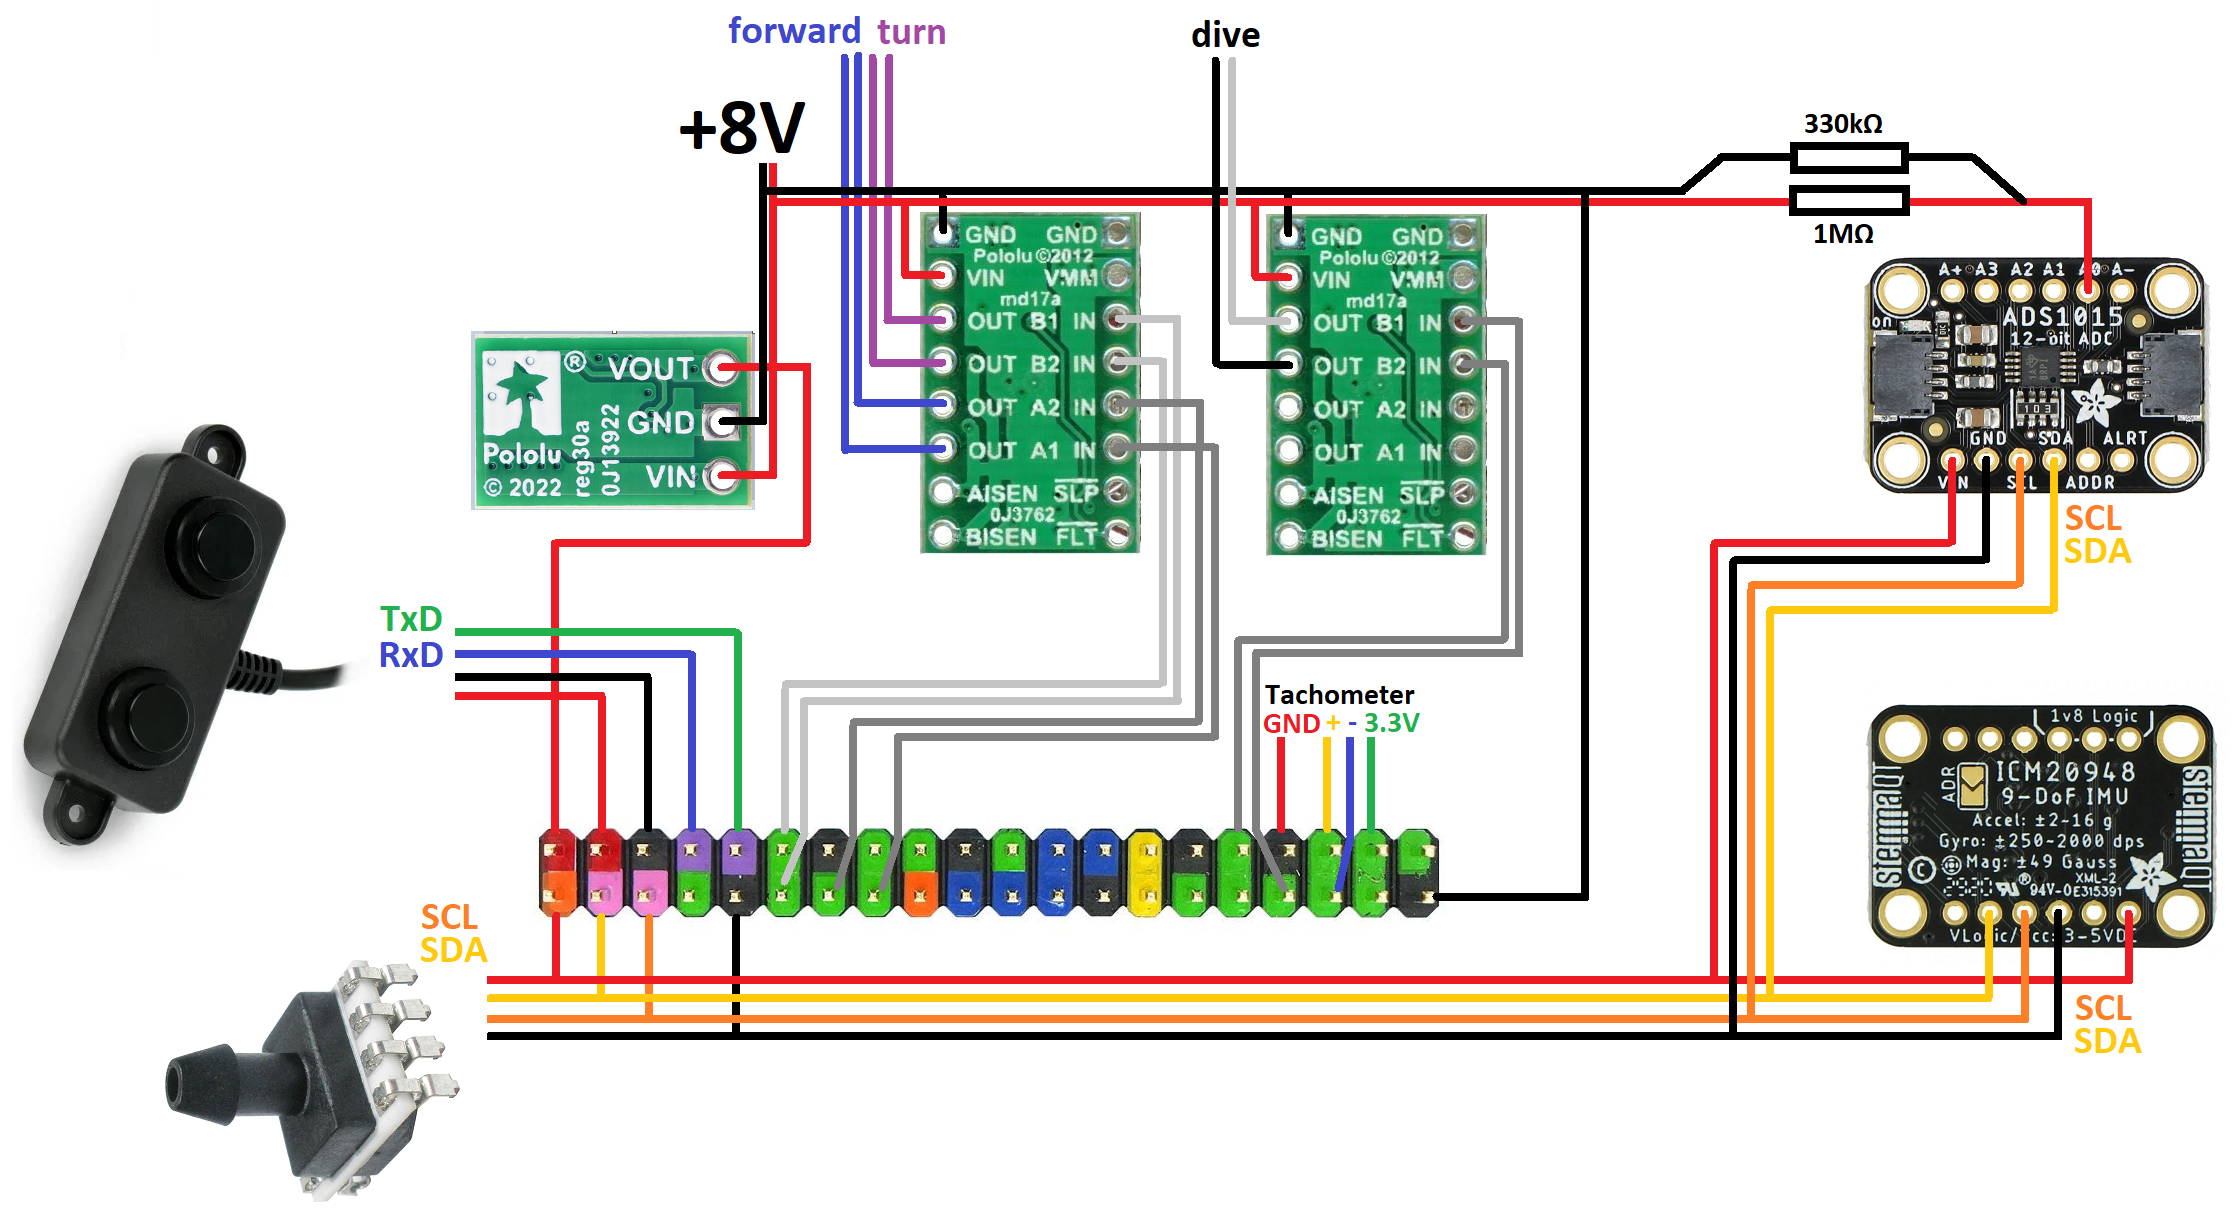
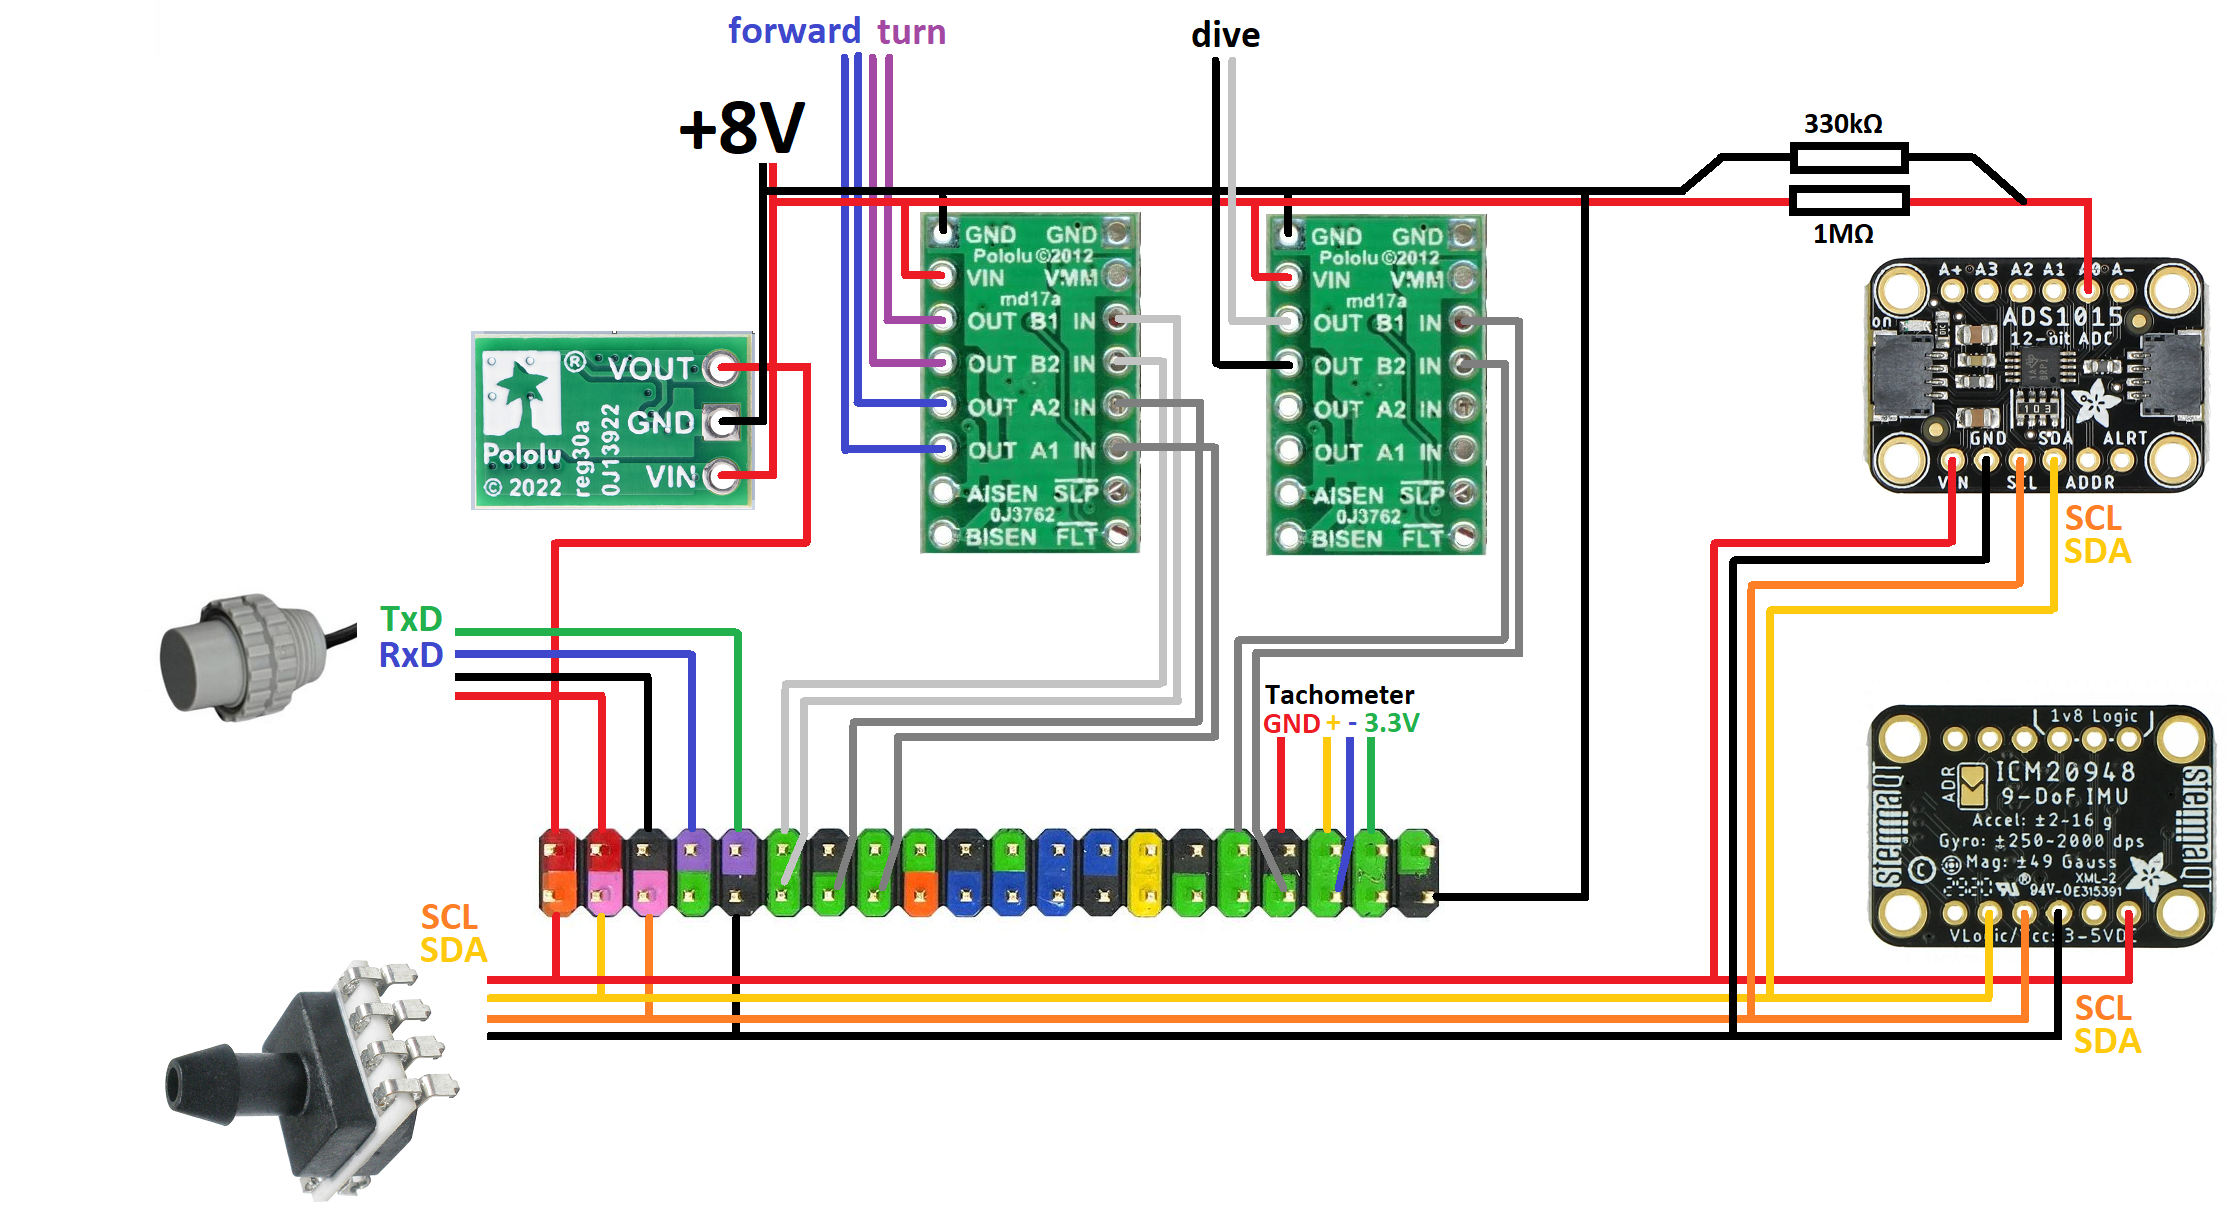
add new sonar sensor to circuit diagram

Changed region(s): [[0.0, 0.3409, 0.1562, 0.7129]]

diff --git a/README.md b/README.md
@@ -19,8 +19,8 @@ the same parts as those in the blog i.e. we also use an
 acrylic cylinder for the basic shape. 
 
 However, the end caps are not assembled from acrylic parts, 
-but printed using a 3D printer. The mesh-files for this can be 
-found in the `resources\print` directory.
+but printed using a 3D printer. The mesh-files for these can be 
+found in the `resources\prints` directory.
 
 * `cap_head.stl`: This is the model of the front cap. It is 
     open at the front so that an acrylic glass pane can be 
@@ -36,7 +36,7 @@ found in the `resources\print` directory.
 * `cap_tail.stl`: This is the model of the rear cap. Unlike 
     the front cap, it is closed and contains three holes: two 
     plug connections for hoses and a central hole for cables.
-* `sonar_admission.stl`: This part ensures that the sonar 
+* `sonar_mount.stl`: This part ensures that the sonar 
     sensor has a flat mount for the round surface of the 
     cylinder. 
 
